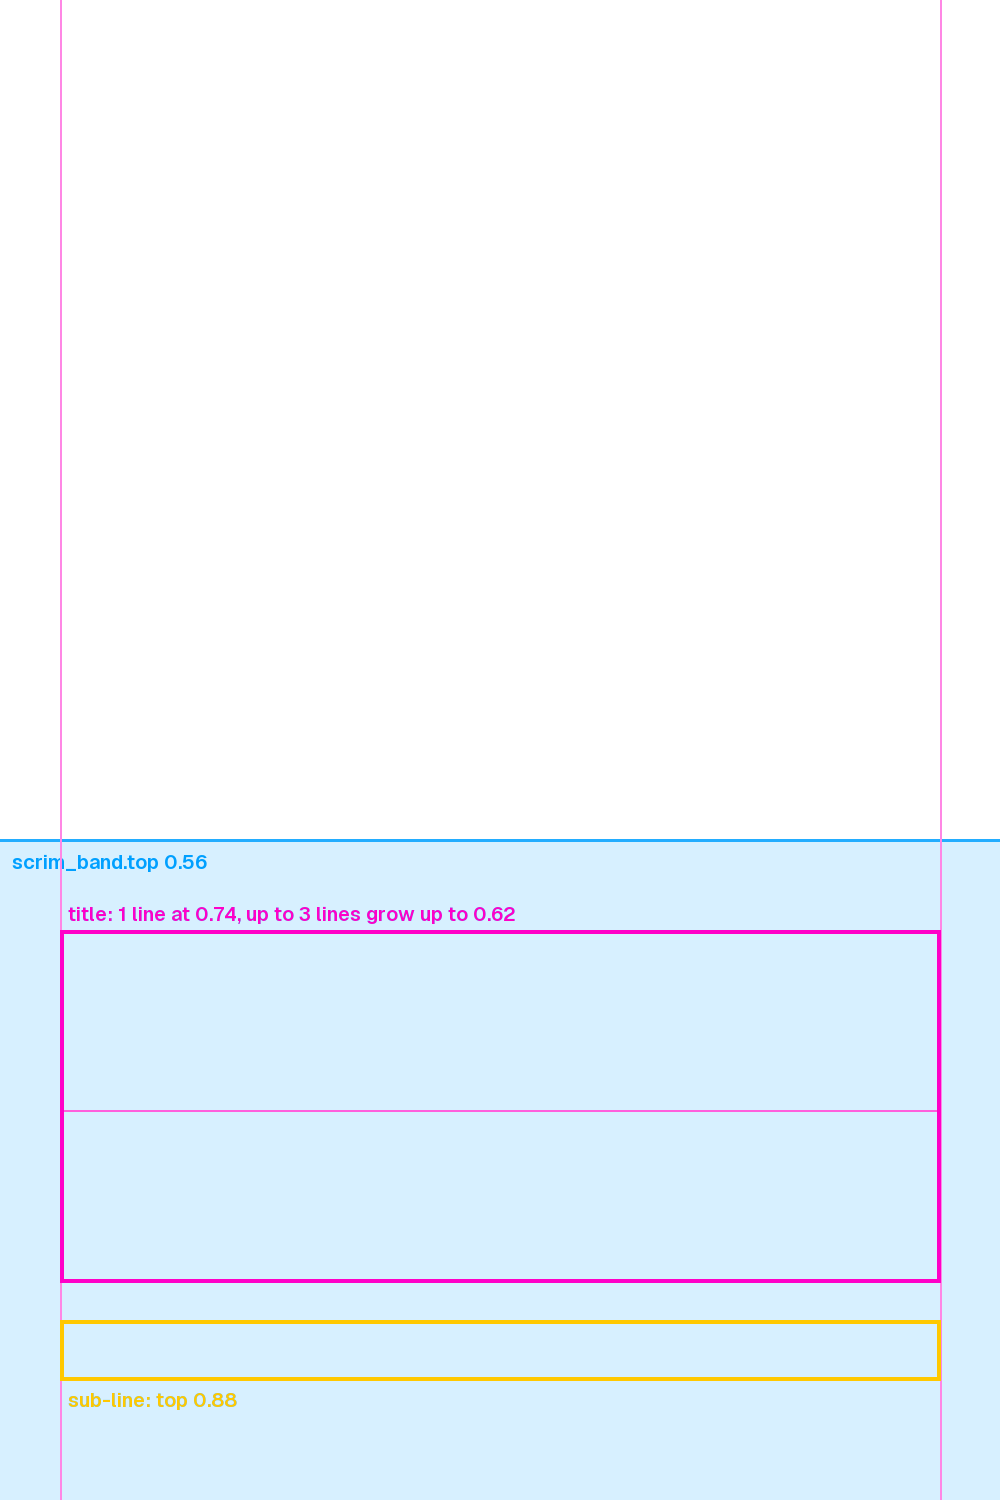
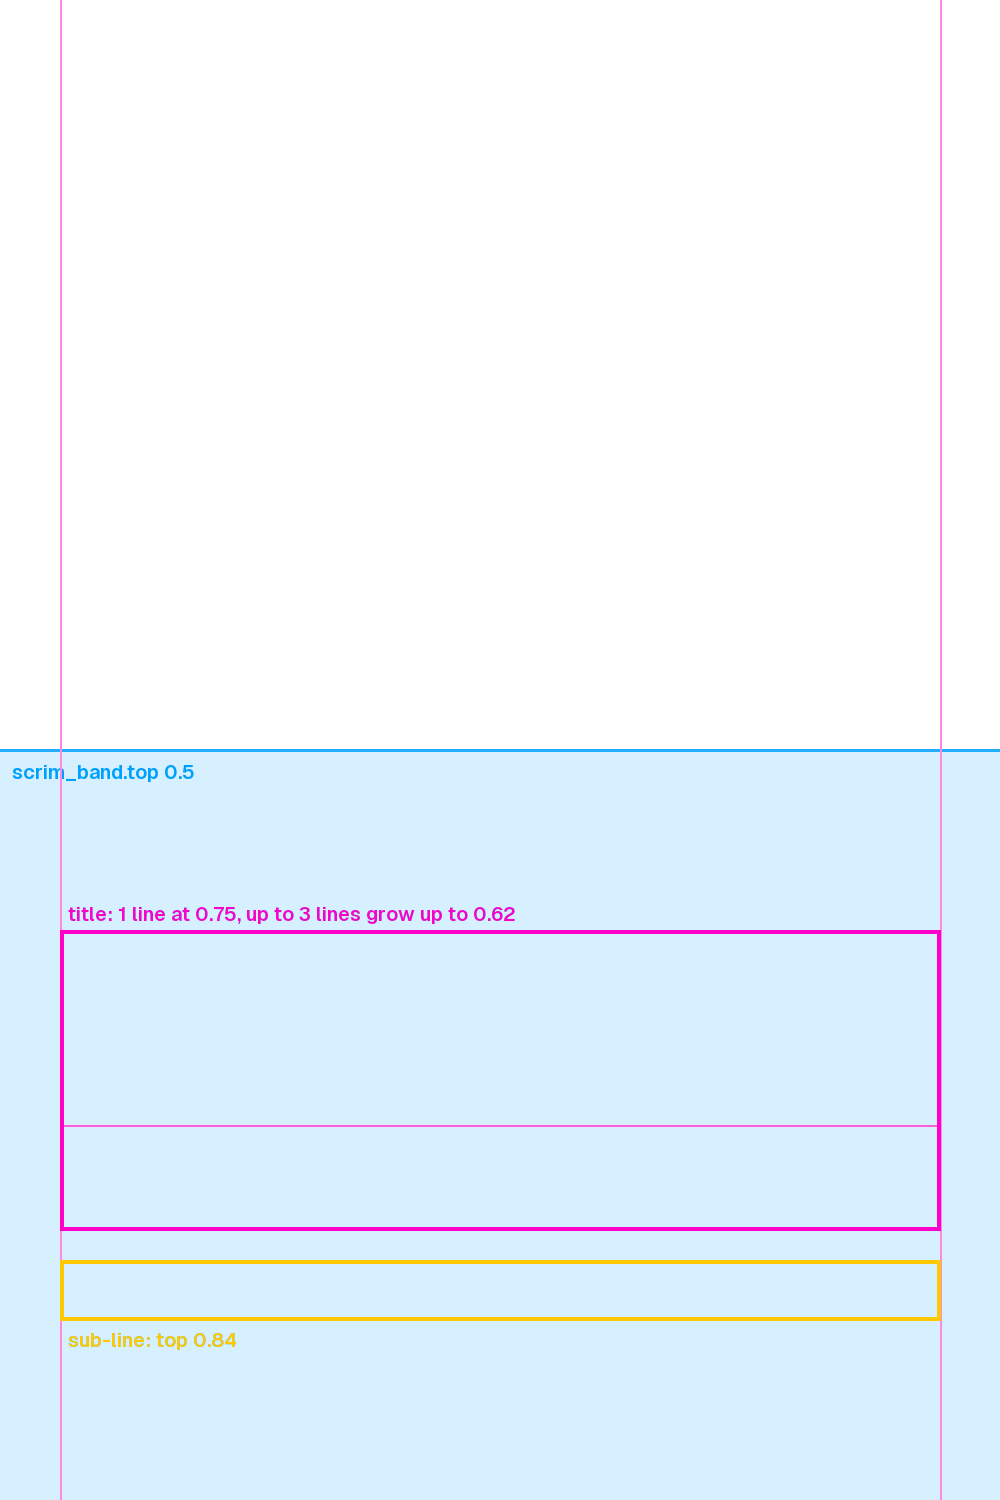
JY-260 phase 1: starter kit follows B.'s Canva layout, centred (local commit, GitHub paused)
- B. 2026-10-28: "Go centre aligned please. then I am happy with that." (quoted with his Canva export in the spec)
- title Geist Regular (400), capitals, 95 px max, top at 75 %, centred, bottom-anchored growth for 2-3 lines
  (title_gap 2 %, top limit 62 %); year / seasons line at 84 %, regular, white, centred
- only a very soft shadow (0.35 / 0.3); art and the smooth fade kept, fade from 50 %
- tests, guide, guide.png and samples updated; full -n 2 tests/hub/: 3453 passed

Changed region(s): [[0.0, 0.4907, 1.0, 0.5827], [0.062, 0.828, 0.961, 0.9507]]

diff --git a/tests/hub/test_media_posters_render.py b/tests/hub/test_media_posters_render.py
@@ -14,6 +14,7 @@ from PIL import Image
 from hub import media_posters_render as r
 
 LONG = "The Assassination of Jesse James by the Coward"     # 46 characters
+TA, SA, GAP, LIMIT = 0.75, 0.84, 0.02, 0.62   # B.'s Canva layout (2026-10-28) in the starter kit
 VERY_LONG = "Night of the Day of the Dawn of the Son of the Bride of the Return of the Revenge of the Terror"
 
 
@@ -51,12 +52,15 @@ def art(w=2000, h=3000, colour=(120, 130, 140), fmt="JPEG") -> bytes:
 def test_starter_kit_is_layout_2_with_layout_3_text_positions(tpl):
     assert (tpl.width, tpl.height) == (1000, 1500)
     t, s = tpl.data["title"], tpl.data["sub"]
-    assert (t["title_anchor"], s["sub_anchor"], t["margin_x"]) == (0.74, 0.88, 0.06)
+    assert (t["title_anchor"], s["sub_anchor"], t["margin_x"]) == (TA, SA, 0.06)
+    assert (t["weight"], s["weight"], t["uppercase"]) == (400, 400, True)   # B.'s Canva look: regular Geist
+    assert t["shadow"]["opacity"] <= 0.35 and s["shadow"]["opacity"] <= 0.35   # only a very soft shadow
+    assert s["opacity"] == 1.0 and s["colour"] == "#FFFFFF"
     assert tpl.data["frame"] is None                      # layout 2: no frame, no border
     band = tpl.data["scrim_band"]
-    assert 0.55 <= band["top"] <= 0.60 and band["solid"] > 1.0           # one gradient over the bottom ~40 %, never flat
+    assert 0.48 <= band["top"] <= 0.56 and band["solid"] > 1.0           # one gradient over the lower half, never flat
     assert (t["max_lines"], t["min_size"]) == (3, 40)
-    assert (t["title_anchor_mode"], t["title_gap"]) == ("bottom", 0.025)   # taller titles grow upward
+    assert (t["title_anchor_mode"], t["title_gap"]) == ("bottom", GAP)   # taller titles grow upward
     assert tpl.font_path.name == "GeistVF.woff2"
     assert r.validate(tpl.data, r.STARTER) == []
 
@@ -74,8 +78,8 @@ def test_short_title_one_line_at_max_size_on_the_anchor(tpl):
     lay = r.layout_title(tpl, "Up")
     assert [ln.text for ln in lay.lines] == ["UP"]                     # uppercase per the kit
     assert lay.size == 95
-    assert lay.top == pytest.approx(0.74 * 1500)
-    assert lay.lines[0].top == pytest.approx(0.74 * 1500)
+    assert lay.top == pytest.approx(TA * 1500)
+    assert lay.lines[0].top == pytest.approx(TA * 1500)
     _inside(lay, tpl)
 
 
@@ -110,28 +114,29 @@ def test_long_title_wraps_to_two_balanced_lines(tpl):
 def test_title_box_never_meets_the_sub_line_box(tpl, title, n):
     lay = r.layout_title(tpl, title)
     assert len(lay.lines) == n
-    sub_top = 0.88 * 1500
+    sub_top = SA * 1500
     sub_bottom = sub_top + 50 * 1.2                                       # the sub-line's line box
-    assert lay.bottom <= sub_top - 0.025 * 1500 + 0.5                     # the fixed gap above the sub-line
+    assert lay.bottom <= sub_top - GAP * 1500 + 0.5                     # the fixed gap above the sub-line
     assert lay.bottom <= sub_top or lay.top >= sub_bottom                 # the boxes never intersect
     if n == 1:
-        assert lay.top == pytest.approx(0.74 * 1500)                      # one line still sits at 74 %
+        assert lay.top == pytest.approx(TA * 1500)                        # one line still sits at the anchor
     else:
-        assert lay.top >= 0.62 * 1500 - 0.5                               # grows upward, no higher than the limit
+        assert lay.top >= LIMIT * 1500 - 0.5                               # grows upward, no higher than the limit
 
 
 def test_the_title_ink_never_reaches_the_sub_line(tpl):
     """Pixels, not boxes: render the 3-line title with no sub-line, and nothing bright reaches the gap above 88 %."""
     out = Image.open(io.BytesIO(r.render(tpl, art(colour=(20, 20, 20)),
                                          "The Assassination of Jesse James by the Coward Robert Ford", ""))).convert("L")
-    gap = out.crop((0, int(0.88 * 1500 - 0.015 * 1500), 1000, int(0.88 * 1500) + 60))
+    gap = out.crop((0, int(SA * 1500 - 0.015 * 1500), 1000, int(SA * 1500) + 60))
     assert max(gap.tobytes()) < 120
 
 
 def test_top_mode_still_hangs_from_the_anchor(tmp_path):
-    t = r.load_template(kit(tmp_path, **{"title.title_anchor_mode": "top", "title.title_top_limit": None}))
+    t = r.load_template(kit(tmp_path, **{"title.title_anchor_mode": "top", "title.title_top_limit": None,
+                                         "title.max_lines": 2}))
     lay = r.layout_title(t, "The Assassination of Jesse James by the Coward Robert Ford")
-    assert lay.top == pytest.approx(0.74 * 1500) and lay.bottom <= (0.88 - 0.025) * 1500 + 0.5
+    assert lay.top == pytest.approx(TA * 1500) and lay.bottom <= (SA - GAP) * 1500 + 0.5
 
 
 def test_bad_anchor_mode_is_refused(tmp_path):
@@ -141,7 +146,7 @@ def test_bad_anchor_mode_is_refused(tmp_path):
 
 def test_two_lines_stay_above_the_sub_line(tpl):
     lay = r.layout_title(tpl, LONG)
-    assert lay.bottom <= 0.88 * 1500
+    assert lay.bottom <= SA * 1500
 
 
 def test_a_59_character_title_is_never_cut(tpl):
@@ -149,14 +154,14 @@ def test_a_59_character_title_is_never_cut(tpl):
     lay = r.layout_title(tpl, title)
     assert not lay.truncated and len(lay.lines) <= 3
     assert " ".join(ln.text for ln in lay.lines) == title.upper()         # every word kept
-    assert lay.bottom <= 0.88 * 1500 + 0.5
+    assert lay.bottom <= SA * 1500 + 0.5
     _inside(lay, tpl)
 
 
 def test_three_lines_fit_between_the_anchors(tpl):
     lay = r.layout_title(tpl, "The Lord of the Rings The Return of the King Extended Edition Part Two")
     assert len(lay.lines) == 3 and 40 <= lay.size <= 95
-    assert lay.bottom <= (0.88 - 0.025) * 1500 + 0.5 and lay.top >= 0.62 * 1500 - 0.5 and not lay.truncated
+    assert lay.bottom <= (SA - GAP) * 1500 + 0.5 and lay.top >= LIMIT * 1500 - 0.5 and not lay.truncated
     _inside(lay, tpl)
 
 
@@ -270,7 +275,7 @@ def test_scrim_is_one_smooth_gradient_with_no_seam(tpl):
     assert max(steps) <= 12                                              # no hard edge anywhere
     assert col[-1] < col[-5] - 1                                         # still fading under the sub-line: no flat band
     start = next(i for i, v in enumerate(col) if v < 195) * 10
-    assert 0.55 * 1500 <= start <= 0.62 * 1500
+    assert 0.48 * 1500 <= start <= 0.55 * 1500
 
 
 def test_render_draws_the_title_in_the_lower_third(tpl):
@@ -279,7 +284,7 @@ def test_render_draws_the_title_in_the_lower_third(tpl):
     lay = r.layout_title(tpl, "The Bear")
     box = (int(lay.lines[0].x), int(lay.top), int(lay.lines[0].x + lay.lines[0].width), int(lay.bottom))
     assert max(titled.crop(box).tobytes()) > 200 > max(plain.crop(box).tobytes())
-    upper = (0, 0, 1000, 820)
+    upper = (0, 0, 1000, 700)
     assert max(titled.crop(upper).tobytes()) < 80                        # nothing drawn in the top two thirds
 
 

diff --git a/docs/posters-template-guide.md b/docs/posters-template-guide.md
@@ -18,15 +18,15 @@ A template is a folder, the **template kit**:
 
 Joey draws the title and the sub-line itself, because the words change per film. Canva supplies everything else.
 
-**Where it lives:** on the NAS at `/volume1/Docker/joey/posters/template/` (File Station: `Docker` → `joey` → `posters` → `template`). If the folder is empty or missing, Joey uses the **starter kit** shipped in the hub, `hub/posters_template/`: layout 2 "Clear" in Geist, with the title at 74 % and the sub-line at 88 %.
+**Where it lives:** on the NAS at `/volume1/Docker/joey/posters/template/` (File Station: `Docker` → `joey` → `posters` → `template`). If the folder is empty or missing, Joey uses the **starter kit** shipped in the hub, `hub/posters_template/`: your Canva layout of 2026-10-28. Clear art, Geist Regular in capitals, centred, the title at 75 % and the year or seasons line at 84 %.
 
 ## Step by step in Canva
 
 1. **Create the design.** Canva → Create a design → Custom size → **1000 × 1500 px**. Any 2:3 size works, from 600 × 900 to 2000 × 3000, as long as `canvas` in `template.json` matches it.
 2. **Add the safe-area guide.** Upload `guide.png` from the starter kit (or from your folder) and place it at full size. It shows:
-   - the **title area** (pink): a one-line title sits on the inner pink line at 74 %. Longer titles grow upward from the bottom of the box, which stops 2.5 % above the sub-line, up to the top of the box at 62 %. Side margins are 6 %;
-   - the **sub-line box** (yellow): top at 88 %;
-   - the **scrim band** (blue): the fade starts at 56 %.
+   - the **title area** (pink): a one-line title sits on the inner pink line at 75 %. Longer titles grow upward from the bottom of the box, which stops 2 % above the sub-line, up to the top of the box at 62 %. Side margins are 6 %;
+   - the **sub-line box** (yellow): top at 84 %;
+   - the **scrim band** (blue): the fade starts at 50 %.
 
    Put a sample poster image underneath as a stand-in for the TMDB art. Keep any artwork you add out of the pink and yellow boxes unless it is meant to sit behind the text.
 3. **Design the scrim** (optional). Add a rectangle over the bottom of the canvas, filled with a gradient from transparent at the top to dark at the bottom. Canva: Elements → Shapes → square, stretch it, then Color → Gradient. Its top edge should sit near the blue line.
@@ -49,26 +49,26 @@ Joey draws the title and the sub-line itself, because the words change per film.
   "canvas": [1000, 1500],
   "font": {"family": "Geist", "file": "GeistVF.woff2"},
   "scrim": null,
-  "scrim_band": {"top": 0.56, "solid": 1.2, "opacity": 0.9, "colour": "#000000"},
+  "scrim_band": {"top": 0.50, "solid": 1.2, "opacity": 0.9, "colour": "#000000"},
   "frame": null,
   "title": {
-    "title_anchor": 0.74, "title_anchor_mode": "bottom", "title_gap": 0.025, "title_top_limit": 0.62,
+    "title_anchor": 0.75, "title_anchor_mode": "bottom", "title_gap": 0.02, "title_top_limit": 0.62,
     "margin_x": 0.06,
     "max_size": 95, "wrap_at": 60, "min_size": 40, "max_lines": 3, "line_height": 1.05,
-    "uppercase": true, "tracking": 0.01, "weight": 800, "colour": "#FFFFFF",
-    "shadow": {"colour": "#000000", "opacity": 0.8, "blur": 14, "dy": 2}
+    "uppercase": true, "tracking": 0, "weight": 400, "colour": "#FFFFFF",
+    "shadow": {"colour": "#000000", "opacity": 0.35, "blur": 12, "dy": 2}
   },
   "sub": {
-    "sub_anchor": 0.88, "size": 50, "weight": 500, "colour": "#FFFFFF", "opacity": 0.82, "tracking": 0.04,
-    "shadow": {"colour": "#000000", "opacity": 0.6, "blur": 10, "dy": 2}
+    "sub_anchor": 0.84, "size": 50, "weight": 400, "colour": "#FFFFFF", "opacity": 1.0, "tracking": 0.02,
+    "shadow": {"colour": "#000000", "opacity": 0.3, "blur": 8, "dy": 2}
   }
 }
 ```
 
-- **Positions are fractions of the height.** `title_anchor: 0.74` puts the top of the title 74 % of the way down; `sub_anchor` does the same for the sub-line. `margin_x: 0.06` keeps 6 % clear on each side, and both lines centre between the margins.
+- **Positions are fractions of the height.** `title_anchor: 0.75` puts the top of the title 75 % of the way down; `sub_anchor` does the same for the sub-line. `margin_x: 0.06` keeps 6 % clear on each side, and both lines centre between the margins.
   - To move the text, change these numbers. In Canva, read a box's Y position and divide by the canvas height: Y 1110 ÷ 1500 = 0.74.
 - **`title_anchor_mode`** decides which way a title grows.
-  - `"bottom"` (the starter): a title starts at `title_anchor`. If its lines would come closer to the sub-line than `title_gap` (2.5 % of the height), the whole block moves up, but never above `title_top_limit`. The title can never touch the sub-line.
+  - `"bottom"` (the starter): a title starts at `title_anchor`. If its lines would come closer to the sub-line than `title_gap` (2 % of the height), the whole block moves up, but never above `title_top_limit`. The title can never touch the sub-line.
   - `"top"`: the block hangs from `title_anchor` and shrinks to fit above the gap.
 - **Sizes are pixels on the canvas.** The title's lines always fit between their top limit and the gap above the sub-line.
   - A title starts at `max_size` on one line and shrinks to `wrap_at` if it is too wide.
@@ -83,6 +83,7 @@ Joey draws the title and the sub-line itself, because the words change per film.
   - `colour`: the fade's colour.
 
   Set `scrim_band` to `null` for no fade at all.
+- **Shadow:** the starter keeps only a very soft one (opacity 0.35 or less), so white text stays readable over bright art. Set `"shadow": null` for none.
 - **Colours** are `#RRGGBB`. `opacity` and the shadow `opacity` run from 0 to 1. `blur` is the shadow softness in pixels, and `dy` moves the shadow down.
 - **`tracking`** is letter spacing as a fraction of the font size: 0.04 = 4 %, the same as Canva's letter spacing 40.
 - **`weight`** is 100 to 900. It works with variable fonts such as Geist; a static font file ignores it.

diff --git a/docs/specs/JY-260-posters.md b/docs/specs/JY-260-posters.md
@@ -18,6 +18,16 @@ Date: 2026-10-28 (spec draft 2026-10-28; B. picked and marked ready the same day
 
 > "Can you change it to include teh text position of layout three whilst keeping the layout two clear section."
 
+B. refined the poster in Canva on 2026-10-28 (his export: a black 1000 × 1500 canvas, "TMDB POSTER ART (placeholder)" near the top, "MOVIE TITLE" in large regular capitals in the lower third, and "Seasons 1–4 · 2022–2025" directly under it), then said:
+
+> "Go centre aligned please. then I am happy with that."
+
+What it means for the starter kit (B.'s Canva layout, built 2026-10-28):
+- **Title:** Geist **Regular** (weight 400; B. named no other font), capitals, `max_size` 95 px, top at 75 %, centred. A 2–3 line title still grows upward from the bottom anchor (`title_gap` 2 %, `title_top_limit` 62 %).
+- **Year / seasons line:** directly under the title, top at 84 %, about 40 px below a 1-line title. Regular weight, white, centred. The no-overlap rule stands.
+- **Shadow:** his export has none, but it was on black. The starter keeps only a very soft shadow (title 0.35, sub-line 0.3 opacity) so the text stays readable over bright art.
+- **Art and fade:** the poster art and the smooth fade stay; the fade now starts at 50 %. His solid black is Canva flattening the gradient on import, not a design choice.
+
 What they mean for the build:
 
 - **Q1B:** B. designs in Canva; joey-hub renders each poster with Pillow. No Canva account at run time.
